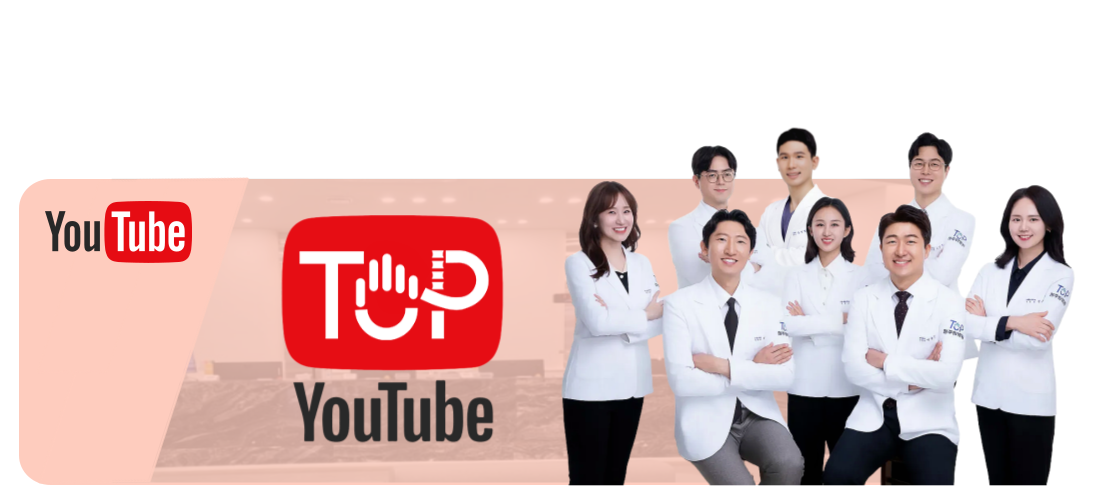
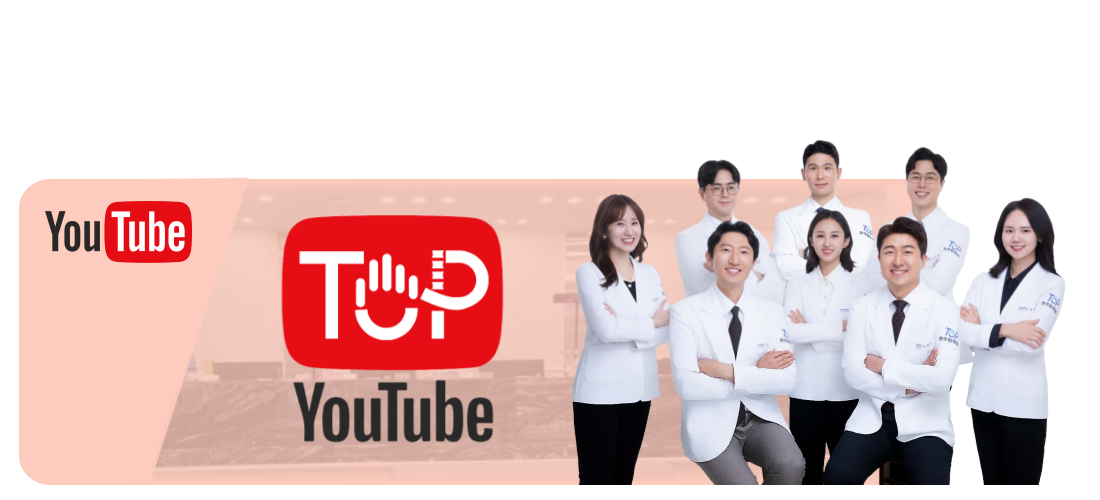
2.0.8 update

Changed region(s): [[0.4945, 0.24, 0.9891, 0.99], [0.68, 0.93, 0.7109, 0.99], [0.7727, 0.93, 0.8036, 0.96]]

diff --git a/lib/pages/pro_home.dart b/lib/pages/pro_home.dart
@@ -97,6 +97,7 @@ class _ProHomeState extends State<ProHome> {
             )
                 : const SizedBox.shrink(),
           ),
+          
           Positioned(
             left: (375 * widthRatio - 320 * widthRatio) / 2,   // size box #3
             top: 310 * heightRatio,   // size box #3
@@ -107,10 +108,24 @@ class _ProHomeState extends State<ProHome> {
                 child: Column(
                   children: [
                     GestureDetector(
-                      child: Image.asset(
-                        'assets/images/4doc.png',
-                        fit: BoxFit.contain,
-                      ),
+                      onTap: () => launchLink('https://www.youtube.com/watch?v=8jmPpfxQZm8'),
+                      child: Image.asset('assets/images/youtube_cervical.png', fit: BoxFit.contain),
+                    ),
+                    GestureDetector(
+                      onTap: () => launchLink('https://www.youtube.com/watch?v=x8KRLBqDwIM'),
+                      child: Image.asset('assets/images/youtube_wrist.png', fit: BoxFit.contain),
+                    ),
+                    GestureDetector(
+                      onTap: () => launchLink('https://www.youtube.com/watch?v=KH0xPpMb14g'),
+                      child: Image.asset('assets/images/youtube_elbow.png', fit: BoxFit.contain),
+                    ),
+                    GestureDetector(
+                      onTap: () => launchLink('https://www.youtube.com/watch?v=8oCsA5yG5tw'),
+                      child: Image.asset('assets/images/youtube_knee.png', fit: BoxFit.contain),
+                    ),
+                    GestureDetector(
+                      onTap: () => launchLink('https://www.youtube.com/watch?v=TodbX412D-o'),
+                      child: Image.asset('assets/images/youtube_lumbar.png', fit: BoxFit.contain),
                     ),
                     const SizedBox(height: 30),
                   ],
@@ -118,6 +133,7 @@ class _ProHomeState extends State<ProHome> {
               ),
             ),
           ),
+
           if (showScroll)
             Positioned(
               left: (375 * widthRatio - 150 * widthRatio) / 2,   // size box #3

diff --git a/lib/pages/page_select.dart b/lib/pages/page_select.dart
@@ -18,11 +18,11 @@ class PageSelect extends StatelessWidget {
       body: Stack(
         children: [
           Positioned(
-            left: -5 * widthRatio,
-            top: 370 * heightRatio,
+            left: (375 * widthRatio - 340 * widthRatio) / 2,   // size box #4
+            top: 400 * heightRatio,   // size box #4
             child: SizedBox(
-              width: 380 * widthRatio,
-              height: 300 * heightRatio,
+              width: 340 * widthRatio,
+              height: 200 * heightRatio,
               child: Image.asset(
                 'assets/images/tophospital.png',
                 fit: BoxFit.contain,
@@ -31,7 +31,7 @@ class PageSelect extends StatelessWidget {
           ),
           Positioned(
             left: (375 * widthRatio - 300 * widthRatio) / 2,
-            top: 240 * heightRatio,   // size box toptop
+            top: 120 * heightRatio,   // size box toptop
             child: SizedBox(
               width: 300 * widthRatio,
               height: 100 * heightRatio,
@@ -49,7 +49,7 @@ class PageSelect extends StatelessWidget {
           ),
           Positioned(
             left: (375 * widthRatio - 300 * widthRatio) / 2,
-            top: 120 * heightRatio,   // size box toptop
+            top: 240 * heightRatio,   // size box toptop
             child: SizedBox(
               width: 300 * widthRatio,
               height: 100 * heightRatio,
